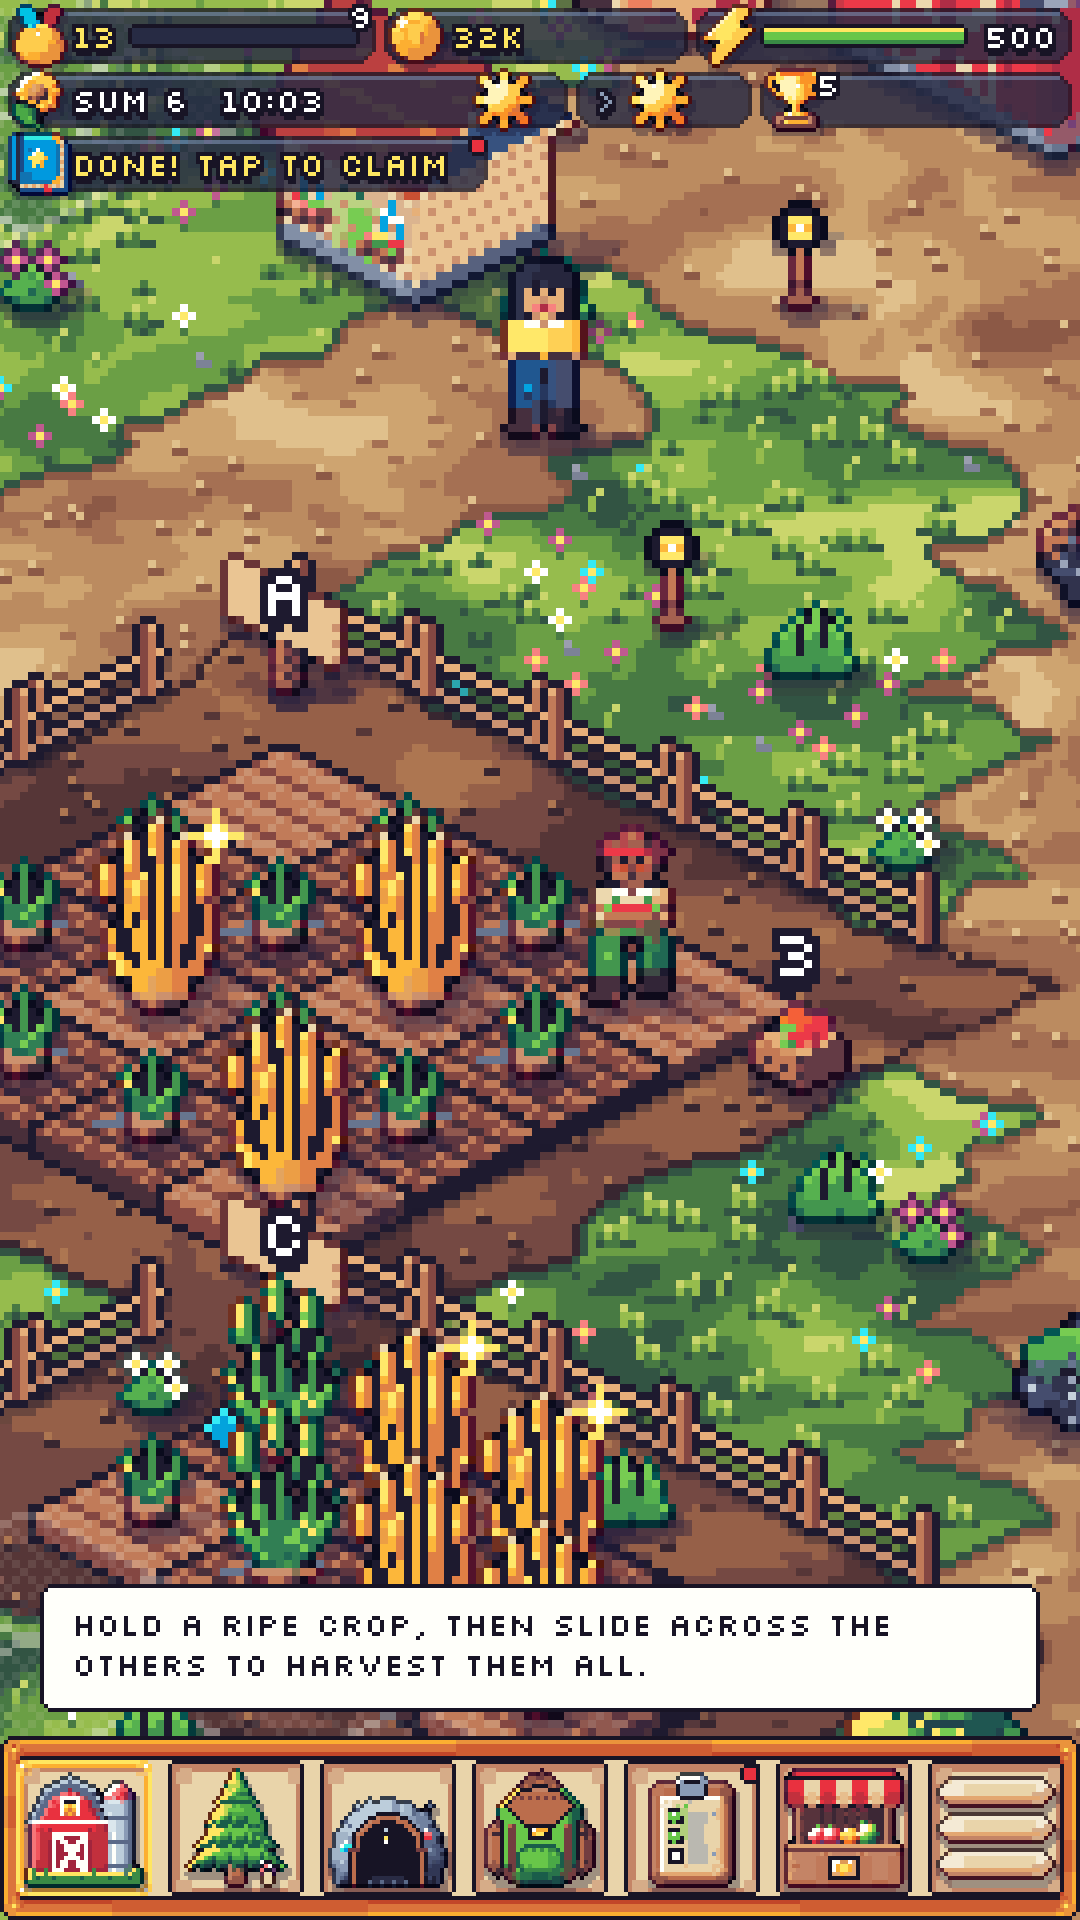
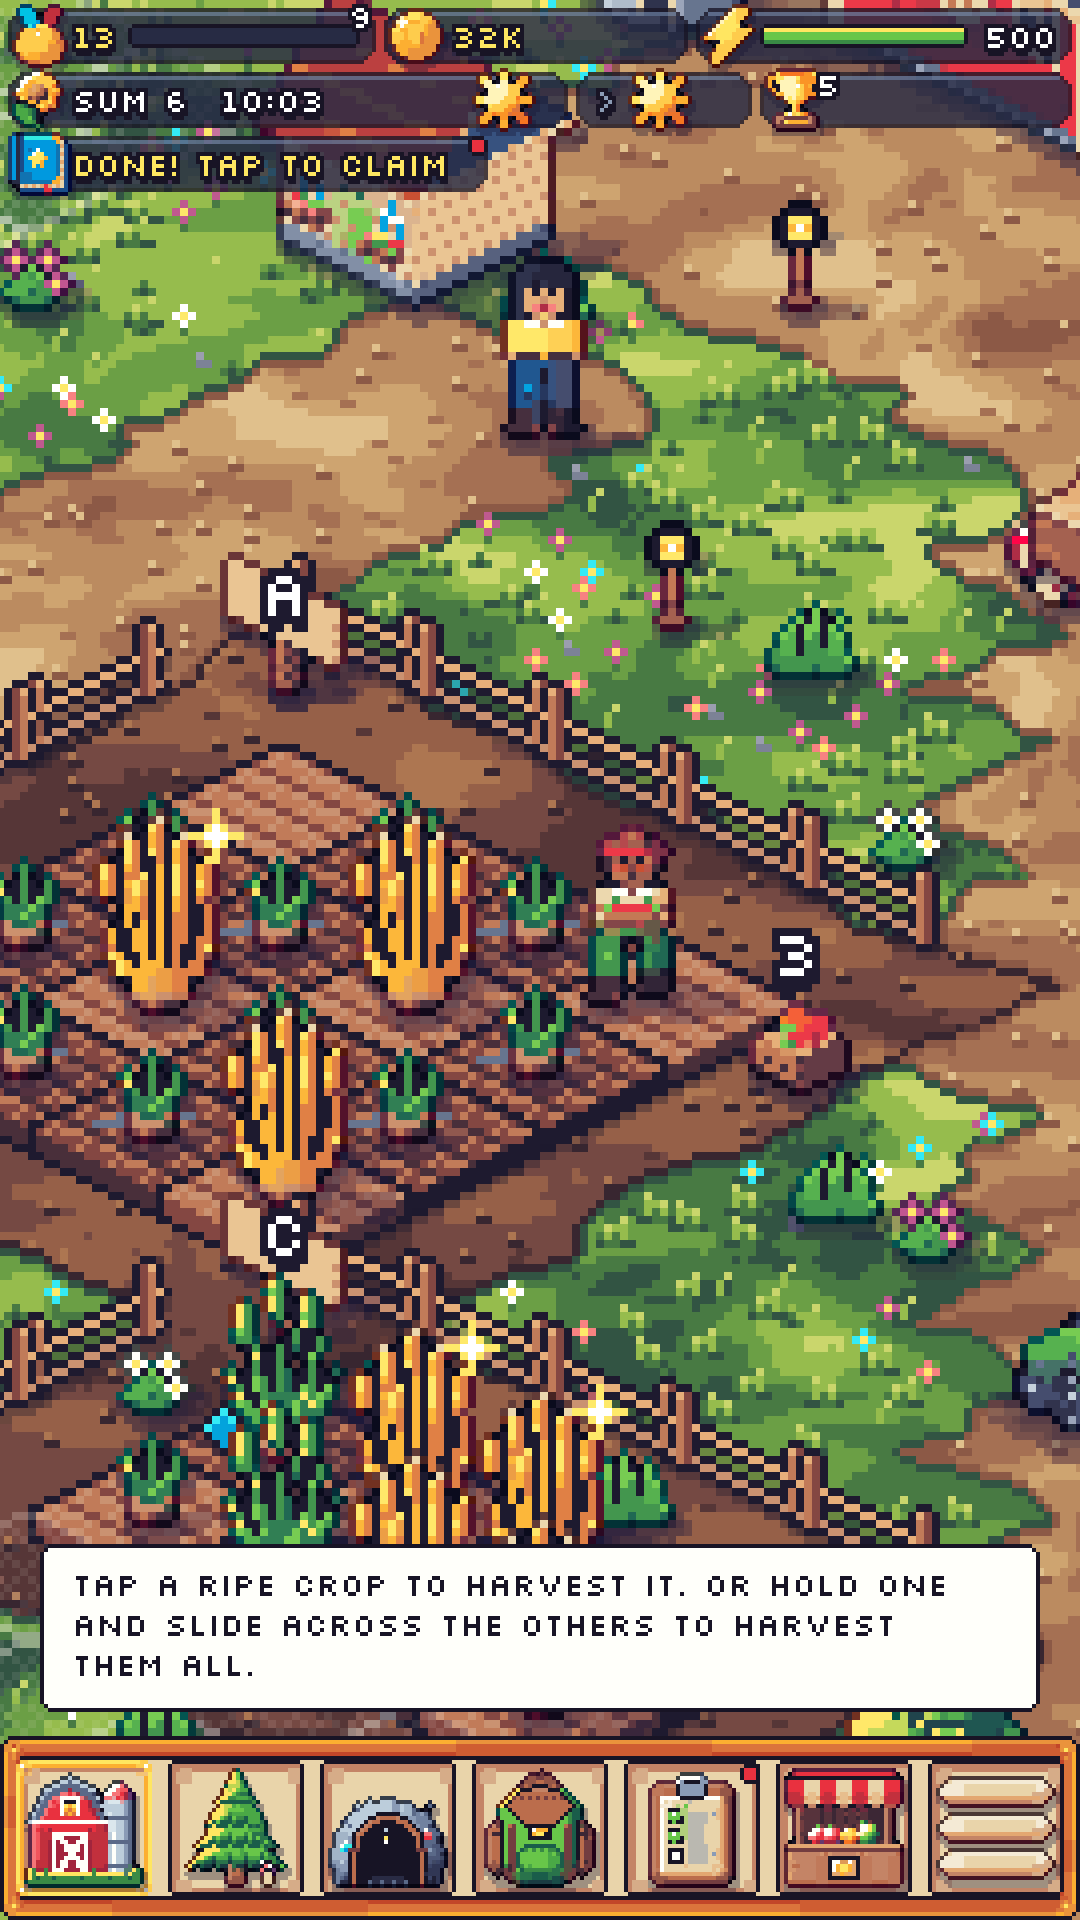
Art round 5: hand-pixeled barn, silo and orders board
The barn carries DITHER FARM painted on its roof and the wheat emblem on its
cupola and wall (owner pick of three); the silo is cream with red hoops.

Claude-Session: https://claude.ai/code/session_01WzqNnDX2S9CAE6QnGepdXg

diff --git a/farm-game/Tools/ArtGen/pixel/farm_hand.py b/farm-game/Tools/ArtGen/pixel/farm_hand.py
@@ -11,6 +11,9 @@ nothing is copied from them.
   buildings/workbench(_snow)            the farmyard workbench
   buildings/well(_snow)                 the stone well
   buildings/market(_snow)               the market stall
+  buildings/barn(_snow)                 the barn, with DITHER FARM painted on its roof
+  buildings/silo(_snow)                 the silo
+  buildings/orders(_snow)               the orders notice board
 
 Pivot = the ground centre of the footprint.
 """
@@ -290,6 +293,234 @@ def truck_load():
     return c, c.pivot(L / 2, W / 2)
 
 
+# ---------------------------------------------------------------- barn (2x2)
+
+def barn(winter):
+    """Red board walls on a stone footing with cream corner trim and eave band, X-brace doors and
+    a hay loft in the gable end, loft windows and a wheat barn-quilt on the long wall, a slate roof
+    with the farm's name painted on it, cream rake boards and ridge, and a cream cupola carrying
+    the wheat emblem."""
+    U, V = 8, 6                     # half-size: the long side runs along u
+    WH, PK = 21, 10                 # wall height, roof peak above the eaves
+    R = WH + PK
+    ze = WH - PK / V                # eave height one unit out
+    c = Iso(80, 88, 40, 62)
+    roof, shade, seam = (("white", "grey_l", "grey_l") if winter else ("slate", "slate_d", "slate_d"))
+    # Back slope (only its underside sliver shows past the gable), walls, footing.
+    c.poly([(-U - 1, 0, R), (U + 1, 0, R), (U + 1, -V - 1, ze), (-U - 1, -V - 1, ze)], "slate_d")
+    c.box(-U, U, -V, V, 0, 2, "grey_l", "grey", "grey_d", lit=False)
+    c.box(-U, U, -V, V, 2, WH, "red", "red", "red_d", lit=False)
+    for u in range(-U + 3, U, 3):
+        c.zline(u, V, 0.4, 1.6, "grey_d")
+    c.uline(-U, U, V, 1, "grey_d")
+    for u in range(-U + 2, U, 2):
+        c.zline(u, V, 2, WH, "red_d")                                   # board seams
+    for v in range(-V + 2, V, 2):
+        c.zline(U, v, 2, WH + PK * (1 - abs(v) / V) - 1, "purple")
+    c.poly([(U, -V, WH), (U, V, WH), (U, 0, R)], "red_d")               # gable end
+    for v in range(-V + 2, V, 2):
+        c.zline(U, v, WH, WH + PK * (1 - abs(v) / V) - 1, "purple")
+    # Cream trim: corner boards, the eave band and the gable's belt board.
+    c.zline(U, V, 0, WH, "cream", dx=-1); c.zline(U, V, 0, WH, "tan")
+    c.zline(-U, V, 0, WH, "cream"); c.zline(-U, V, 0, WH, "cream", dx=1)
+    c.zline(U, -V, 0, WH, "tan", dx=-1); c.zline(U, -V, 0, WH, "tan", dx=-2)
+    c.uline(-U, U, V, WH, "cream")
+    c.vline(U, 2 * V, -V, WH, "tan")
+    # Big doors in the gable end: cream frame, red leaves, cream X braces.
+    c.poly([(U, -3.5, 2), (U, 3.5, 2), (U, 3.5, 14), (U, -3.5, 14)], "cream")
+    for v0, v1 in ((-3, -0.25), (0.25, 3)):
+        c.poly([(U, v0, 2), (U, v1, 2), (U, v1, 13.4), (U, v0, 13.4)], "red")
+        c.line((U, v0, 2), (U, v1, 13.4), "cream")
+        c.line((U, v1, 2), (U, v0, 13.4), "cream")
+    c.dot(*c.p(U, 0.6, 8), "grey_d"); c.dot(*c.p(U, -0.6, 8), "grey_d")  # handles
+    # Hay loft: cream frame, dark inside, hay spilling over the sill.
+    c.poly([(U, -2, WH + 0.8), (U, 2, WH + 0.8), (U, 2, WH + 5.4), (U, -2, WH + 5.4)], "cream")
+    c.poly([(U, -1.5, WH + 1.3), (U, 1.5, WH + 1.3), (U, 1.5, WH + 4.8), (U, -1.5, WH + 4.8)], "brown_d")
+    for v, k in ((-1.2, 2), (-0.6, 3), (0, 2), (0.6, 3), (1.2, 2)):
+        x, y = c.p(U, v, WH + 1.3)
+        for j in range(k):
+            c.dot(x, y - j, "yellow" if j else "amber")
+    for u0 in (-U + 2, U - 4.5):                                        # loft windows
+        c.poly([(u0, V, 9), (u0 + 2.5, V, 9), (u0 + 2.5, V, 15), (u0, V, 15)], "cream")
+        c.poly([(u0 + 0.5, V, 9.6), (u0 + 2, V, 9.6), (u0 + 2, V, 14.4), (u0 + 0.5, V, 14.4)], "slate_d")
+        c.zline(u0 + 1.25, V, 9.6, 14.4, "cream")
+    x, y = c.p(0, V, 12)                                            # barn-quilt diamond
+    for dy in range(-5, 6):
+        half = 5 - abs(dy)
+        for dx in range(-half, half + 1):
+            edge = abs(dx) == half
+            c.dot(x + dx, y + dy + (dx + 6) // 2 - 3, "red_d" if edge else "cream")
+    c.wheat(x - 2, y - 3)
+    # Front slope: shingle rows, cream fascia at the eave and cream rake boards, cream ridge.
+    c.poly([(-U - 1, 0, R), (U + 1, 0, R), (U + 1, V + 1, ze), (-U - 1, V + 1, ze)], roof)
+    for k in range(1, V + 1):
+        if k in (1, V):                                                 # (clear under the name)
+            c.uline(-U - 1, U + 1, k * 1.0 + 0.2, R - PK * (k + 0.2) / V, seam if k % 2 else shade)
+    c.uline(-U - 1, U + 1, V + 1, ze, "cream"); c.uline(-U - 1, U + 1, V + 1, ze - 1, "tan")
+    c.line((U + 1, 0, R + 1), (U + 1, V + 1, ze), "cream")
+    c.line((U + 1, 0, R + 1), (U + 1, -V - 1, ze), "cream")
+    c.line((U + 1, 0, R), (U + 1, -V - 1, ze - 1), "tan")
+    c.uline(-U - 1, U + 1, 0, R + 1, "cream")
+    ink = "grey" if winter else "cream"                                  # the name shows through the snow
+    c.text_u(-U + 0.6, 2.6, R - PK * 2.6 / V + 1, "DITHER", ink, shadow=None if winter else shade)
+    c.text_u(-U + 2.6, 5.0, R - PK * 5.0 / V + 1, "FARM", ink, shadow=None if winter else shade)
+    # Cupola: cream box with the wheat on its face, red pyramid cap, weathervane.
+    c.box(-1.6, 1.6, -1.6, 1.6, R - 3, R + 4, "cream", "cream", "tan")
+    c.wheat(*c.p(-1.2, 1.6, R + 3))
+    cap = ("white", "grey_l") if winter else ("red", "red_d")
+    c.poly([(-2.2, 2.2, R + 4), (2.2, 2.2, R + 4), (0, 0, R + 9)], cap[0])
+    c.poly([(2.2, -2.2, R + 4), (2.2, 2.2, R + 4), (0, 0, R + 9)], cap[1])
+    c.uline(-2.2, 2.2, 2.2, R + 4, "cream"); c.vline(2.2, 4.4, -2.2, R + 4, "tan")
+    c.zline(0, 0, R + 9, R + 13, "grey_d")
+    x, y = c.p(0, 0, R + 12)
+    for i in range(-3, 4):
+        c.dot(x + i, y, "grey")
+    c.dot(x + 3, y - 1, "red"); c.dot(x + 3, y + 1, "red"); c.dot(x + 4, y, "red")
+    soften(c.im)
+    return c, c.pivot(0, 0)
+
+
+# ---------------------------------------------------------------- silo (1x1)
+
+def silo(winter):
+    """A round tower on a stone ring: cream body with red hoops, a red dome with a cream eave and
+    finial, a ladder, a cream-framed hatch and the wheat emblem on a red roundel."""
+    body, hoop = ("white", "cream", "tan", "tan_d"), ("pink", "red", "red_d", "purple")
+    dome = ("white", "grey_l") if winter else ("red", "red_d")
+    c = Iso(40, 80, 20, 70)
+    cx, cy = c.p(0, 0, 0)
+    rx, ry, H, D = 11, 5.5, 36, 9
+
+    def band(dx, ramp):
+        return ramp[0] if dx < -0.55 else ramp[1] if dx < 0.15 else ramp[2] if dx < 0.7 else ramp[3]
+
+    def ring(z, ramp, r=rx, filled=False):
+        rr = r * ry / rx
+        for x in range(cx - r, cx + r + 1):
+            dx = (x - cx) / r
+            s = max(0.0, 1 - dx * dx) ** 0.5
+            col = band(dx, ramp)
+            y1 = round(cy - z + rr * s)
+            if filled:
+                for y in range(round(cy - z - rr * s), y1 + 1):
+                    c.dot(x, y, col)
+            else:
+                c.dot(x, y1, col)
+
+    stone = ("grey_l", "grey", "grey_d", "slate")
+    for z in range(H + 1):
+        ramp = stone if z < 6 else hoop if (z % 10 in (4, 5)) else body
+        ring(z, ramp)
+    for x in range(cx - rx + 2, cx + rx - 1, 3):                        # stone joints
+        dx = (x - cx) / rx
+        y = round(cy + ry * (1 - dx * dx) ** 0.5)
+        c.dot(x, y - 3, "grey_d"); c.dot(x + 1, y - 1, "grey_d")
+    # Dome: stacked shrinking discs, a cream eave ring and a finial.
+    for k in range(D + 1):
+        r = max(1, round(rx * (1 - (k / (D + 0.5)) ** 2) ** 0.5))
+        ring(H + k, (dome[0], dome[0], dome[1], dome[1]) if k < D - 2 else (dome[0],) * 4, r=r, filled=True)
+    ring(H, ("white", "cream", "tan", "tan"))
+    c.zline(0, 0, H + D + 1, H + D + 4, "cream")
+    c.dot(cx, cy - H - D - 4, "white")
+    # Ladder on the right.
+    lx = cx + 6
+    for z in range(4, H + 1):
+        y = round(cy - z + ry * (1 - (6 / rx) ** 2) ** 0.5)
+        c.dot(lx, y, "grey_d"); c.dot(lx + 3, y, "grey_d")
+        if z % 3 == 0:
+            c.dot(lx + 1, y, "grey"); c.dot(lx + 2, y, "grey")
+    # Hatch at the foot, the wheat on a roundel up top.
+    hx = cx - 4
+    for z in range(1, 9):
+        y = round(cy - z + ry * (1 - (4 / rx) ** 2) ** 0.5)
+        for i in range(5):
+            edge = i in (0, 4) or z == 8
+            c.dot(hx + i, y + (i // 3), "cream" if edge else "slate_d")
+    x, y = cx - 3, cy - 26 + 2
+    rcol = hoop[1]
+    c.ellipse(x, y, 4, 4, rcol)
+    c.wheat(x - 2, y - 3)
+    soften(c.im)
+    return c, (cx, cy)
+
+
+# ---------------------------------------------------------------- orders board (1x1)
+
+def orders(winter):
+    """A notice board: red posts with cream caps, a red-framed cork board with pinned order notes
+    (one marked urgent with a red !), a little red shingle roof with a cream ridge."""
+    c = Iso(36, 40, 18, 30)
+    B = 3.6
+    for u in (-B - 0.5, B):                                             # red posts
+        c.box(u, u + 0.5, -0.3, 0.2, 0, 16, "red", "red", "red_d")
+    c.box(-B, B, -0.25, 0.15, 5, 15, "red", "red", "red_d", lit=False)  # frame
+    c.poly([(-B + 0.5, 0.15, 5.6), (B - 0.5, 0.15, 5.6), (B - 0.5, 0.15, 14.4), (-B + 0.5, 0.15, 14.4)], "tan")
+    for u in (-1.5, 1.0):                                               # cork flecks
+        x, y = c.p(u, 0.15, 7)
+        c.dot(x, y, "tan_d"); c.dot(x + 3, y + 3, "tan_d")
+    notes = [(-2.8, 13.8, "white", False), (-0.4, 13.6, "yellow", False), (1.4, 13.8, "white", True),
+             (-2.2, 9.4, "pink", False), (0.6, 9.2, "cream", False)]
+    for u0, ztop, col, urgent in notes:
+        x, y = c.p(u0, 0.15, ztop)
+        for i in range(4):
+            for j in range(4 if not urgent else 5):
+                c.dot(x + i, y + j + i // 2, col)
+        if urgent:
+            c.dot(x + 1, y, "red"); c.dot(x + 1, y + 1, "red"); c.dot(x + 1, y + 2, "red"); c.dot(x + 2, y + 4, "red")
+        else:
+            c.dot(x + 1, y, "red")                                      # pin
+            c.dot(x, y + 2, "grey"); c.dot(x + 1, y + 2, "grey"); c.dot(x + 2, y + 3, "grey"); c.dot(x + 3, y + 3, "grey")
+    # Roof: red shingles, cream ridge and eave, the gable end in dark red.
+    sh = ("white", "grey_l") if winter else ("red", "red_d")
+    c.poly([(B + 1, 0, 19), (B + 1, -1.6, 16), (B + 1, 1.6, 16)], "purple")
+    c.poly([(-B - 1, 0, 19), (B + 1, 0, 19), (B + 1, 1.6, 16), (-B - 1, 1.6, 16)], sh[0])
+    c.uline(-B - 1, B + 1, 0.8, 17.5, sh[1])
+    c.uline(-B - 1, B + 1, 1.6, 16, "cream")
+    c.uline(-B - 1, B + 1, 0, 19.6, "cream")
+    c.line((B + 1, 0, 19.6), (B + 1, -1.6, 16), "cream")
+    soften(c.im)
+    return c, c.pivot(0, 0)
+
+
+def preview2(out):
+    """Batch 2 (barn, silo, orders board): today's sprite then the hand-pixeled options, 5x."""
+    from PIL import Image, ImageDraw
+    sys.path.insert(0, os.path.join(os.path.dirname(os.path.abspath(__file__)), ".."))
+    import polish
+    art = os.path.join(os.path.dirname(os.path.abspath(__file__)), "..", "..", "..", "app", "src", "main", "assets", "art")
+    man = json.load(open(os.path.join(art, "manifest.json")))
+    hand = Image.open(os.path.join(art, "people/hana_se_idle.png")).convert("RGBA")
+    hp = man["people/hana_se_idle"]
+    rows = [[("buildings/barn", None, 2, "NOW"), ("buildings/barn", lambda: barn(False), 2, "new"),
+             ("buildings/barn", lambda: barn(True), 2, "winter")],
+            [("buildings/silo", None, 1, "NOW"), ("buildings/silo", lambda: silo(False), 1, "new"),
+             ("buildings/silo", lambda: silo(True), 1, "winter"), ("buildings/orders", None, 1, "NOW"),
+             ("buildings/orders", lambda: orders(False), 1, "new")]]
+    cws, ch = (150, 120), 104
+    sheet = Image.new("RGBA", (600, ch * 2), (62, 137, 72, 255))
+    d = ImageDraw.Draw(sheet)
+    for ri, row in enumerate(rows):
+        cw = cws[ri]
+        for i, (name, fn, tiles, label) in enumerate(row):
+            ax, ay = i * cw + cw // 2 + 6, ri * ch + ch - 20
+            d.text((i * cw + 4, ri * ch + 2), label, fill=(255, 255, 255, 255))
+            t = 16 * tiles
+            d.line([(ax - 2 * t, ay), (ax, ay - t), (ax + 2 * t, ay), (ax, ay + t), (ax - 2 * t, ay)], fill=(48, 110, 60, 255))
+            sheet.alpha_composite(hand, (ax - 2 * t + 4 - hp["ax"], ay + t // 2 - hp["ay"]))
+            if fn is None:
+                im = Image.open(os.path.join(art, name + ".png")).convert("RGBA")
+                p = man[name]
+                sheet.alpha_composite(im, (ax - p["ax"], ay - p["ay"]))
+            else:
+                cnv, (px_, py_) = fn()
+                x0, y0, x1, y1 = cnv.im.getbbox()
+                body, pad = finish(cnv.im.crop((x0, y0, x1, y1)))
+                sys.stderr.write("%s bh %d\n" % (name, body.height))
+                body = polish.polish(body, "world", name)
+                sheet.alpha_composite(body, (ax - (px_ - x0 + pad), ay - (py_ - y0 + pad)))
+    sheet.resize((sheet.width * 4, sheet.height * 4), Image.NEAREST).save(out)
+
+
 def emit(sp, name, made):
     cnv, (px, py) = made
     x0, y0, x1, y1 = cnv.im.getbbox()
@@ -305,7 +536,7 @@ def main():
         emit(veh, f"truck_se_{f}", truck_se(f))
         emit(veh, f"truck_ne_{f}", truck_ne(f))
     emit(veh, "truck_load", truck_load())
-    for name, fn in (("workbench", workbench), ("well", well), ("market", market)):
+    for name, fn in (("barn", barn), ("silo", silo), ("orders", orders), ("workbench", workbench), ("well", well), ("market", market)):
         emit(bld, name, fn(False))
         emit(bld, name + "_snow", fn(True))
     pivots = {}
@@ -353,5 +584,7 @@ def preview(out):
 if __name__ == "__main__":
     if len(sys.argv) > 2 and sys.argv[1] == "--preview":
         preview(sys.argv[2])
+    elif len(sys.argv) > 2 and sys.argv[1] == "--preview2":
+        preview2(sys.argv[2])
     else:
         main()

diff --git a/farm-game/Tools/ArtGen/pixel/_iso.py b/farm-game/Tools/ArtGen/pixel/_iso.py
@@ -29,7 +29,7 @@ FONT = {
     "M": ["101", "111", "111", "101", "101"], "N": ["101", "111", "111", "111", "101"],
     "O": ["010", "101", "101", "101", "010"], "R": ["110", "101", "110", "101", "101"],
     "S": ["011", "100", "010", "001", "110"], "T": ["111", "010", "010", "010", "010"],
-    "W": ["101", "101", "111", "111", "101"], "0": ["111", "101", "101", "101", "111"],
+    "W": ["101", "101", "111", "111", "101"], "G": ["011", "100", "101", "101", "011"], "0": ["111", "101", "101", "101", "111"],
     "1": ["010", "110", "010", "010", "111"], "2": ["110", "001", "010", "100", "111"],
     "3": ["110", "001", "010", "001", "110"], "5": ["111", "100", "110", "001", "110"],
     "C2": ["011", "100", "100", "100", "011"], " ": ["000", "000", "000", "000", "000"],
@@ -117,6 +117,25 @@ class Iso:
                             self.dot(x + i, y + j + 1, shadow)
                         self.dot(x + i, y + j, col)
             x += 4
+
+    def text_u(self, u, v, z, s, col, shadow=None):
+        """Painted letters on a +v face or slope, running along +u: each letter upright (crisp at
+        3x5) and stepped two pixels lower than the last, like the face; the top-left of the first
+        letter at (u, v, z)."""
+        x0, y0 = self.p(u, v, z)
+        for k, ch in enumerate(s.upper()):
+            g = FONT.get(ch, FONT[" "])
+            for j, row in enumerate(g):
+                for i, b in enumerate(row):
+                    if b == "1":
+                        x, y = x0 + 4 * k + i, y0 + 2 * k + j
+                        if shadow:
+                            self.dot(x, y + 1, shadow)
+                        self.dot(x, y, col)
+
+    def line(self, a, b, col):
+        """A straight pixel line between two world points."""
+        self.d.line([self.p(*a), self.p(*b)], fill=self.c(col))
 
     def wheat(self, x, y, light="yellow", mid="amber", stem="brown_l"):
         """The wheat-sheaf emblem with its top-left at pixel (x, y)."""

diff --git a/farm-game/Tools/ArtGen/pixel/buildings.py b/farm-game/Tools/ArtGen/pixel/buildings.py
@@ -570,9 +570,9 @@ def workbench(winter):
     return solids
 
 
-# The market stall, well and workbench are hand-pixeled in farm_hand.py (art round 5); their
-# ray-cast models stay for previews.
-BUILDINGS = [("barn", barn), ("silo", silo), ("orders", orders)]
+# All of these are hand-pixeled in farm_hand.py now (art round 5); the ray-cast models stay for
+# previews and comparison.
+BUILDINGS = []
 
 
 def main():

diff --git a/farm-game/Tools/ArtGen/scaled.py b/farm-game/Tools/ArtGen/scaled.py
@@ -23,7 +23,6 @@ from _pix import Sprites, finish, new  # noqa: E402
 
 # name: (module, folder, scale)
 SCALE = {
-    "orders": ("buildings", "buildings", 0.7),
     "compost_bin": ("machines_farm", "buildings", 0.6),
     "bakery_oven": ("machines_farm", "buildings", 0.6),
     "preserves_jar": ("machines_farm", "buildings", 0.55),

diff --git a/farm-game/Docs/DECISIONS.md b/farm-game/Docs/DECISIONS.md
@@ -5,7 +5,7 @@ Answers the owner gave while scoping the game. `GAME_DESIGN.md` must follow thes
 ## Platform and presentation
 - Native Android (Kotlin, custom Canvas renderer). No Unity.
 - Portrait, isometric view. Tap the farm directly (Hay Day style); there is no avatar.
-- Pixel art: 32px, Endesga-32 palette, checker dithering, black outline, hard drop shadow. Art round 3 (sharp and clean, inspired by a lush reference but without its blur): a wider palette with hue shifting (shadows cooler, highlights warmer), no dithering (clean steps), coloured outlines, crisp see-through cast shadows to the lower right with sun spots under trees, leaf-cluster foliage, and posterised ground patches with grass clumps. World sprites and items get this from Tools/ArtGen/polish.py; art round 4 gives UI icons, panels, buttons and villager portraits the same clean look (9-slice sizes and corners unchanged). Rocks (picked from three styles): ore-coloured rocks about a farmhand wide and knee high, three shape variants each; ore and stone item icons match. The Mine Mouth is a timber tunnel cut into a grass-topped block that joins the quarry cliffs. Art round 5 (owner pick: a hand-pixeled redo of the main farm, Dither Farm's own painted-toy look): flat bold paint, chunky rounded silhouettes and a lit edge on every top, with three signature marks repeated across the farm: the barn's red-and-cream trim, the wheat-sheaf emblem from the app icon and hand-painted names. Drawn pixel by pixel on the iso grid (Tools/ArtGen/pixel/_iso.py, farm_hand.py), in batches the owner sees first; the pickup truck and its load, the workbench, the well and the market stall come first, sized to the scale bands. Reference packs the owner shared were looked at for readability only; nothing is copied from them.
+- Pixel art: 32px, Endesga-32 palette, checker dithering, black outline, hard drop shadow. Art round 3 (sharp and clean, inspired by a lush reference but without its blur): a wider palette with hue shifting (shadows cooler, highlights warmer), no dithering (clean steps), coloured outlines, crisp see-through cast shadows to the lower right with sun spots under trees, leaf-cluster foliage, and posterised ground patches with grass clumps. World sprites and items get this from Tools/ArtGen/polish.py; art round 4 gives UI icons, panels, buttons and villager portraits the same clean look (9-slice sizes and corners unchanged). Rocks (picked from three styles): ore-coloured rocks about a farmhand wide and knee high, three shape variants each; ore and stone item icons match. The Mine Mouth is a timber tunnel cut into a grass-topped block that joins the quarry cliffs. Art round 5 (owner pick: a hand-pixeled redo of the main farm, Dither Farm's own painted-toy look): flat bold paint, chunky rounded silhouettes and a lit edge on every top, with three signature marks repeated across the farm: the barn's red-and-cream trim, the wheat-sheaf emblem from the app icon and hand-painted names. Drawn pixel by pixel on the iso grid (Tools/ArtGen/pixel/_iso.py, farm_hand.py), in batches the owner sees first; the pickup truck and its load, the workbench, the well and the market stall came first, then the barn (owner pick of three: DITHER FARM painted on its slate roof, a wheat barn-quilt on the wall, the wheat on the cupola), a cream silo with red hoops and dome, and the orders board; all sized to the scale bands. Reference packs the owner shared were looked at for readability only; nothing is copied from them.
 - Font: Silkscreen (OFL).
 - SFX only, no music. Haptics with a settings toggle.
 - App name: **Dither Farm**. The APK is built by GitHub Actions.
